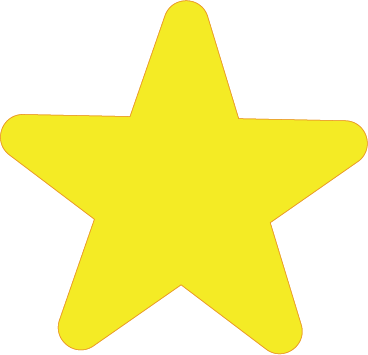
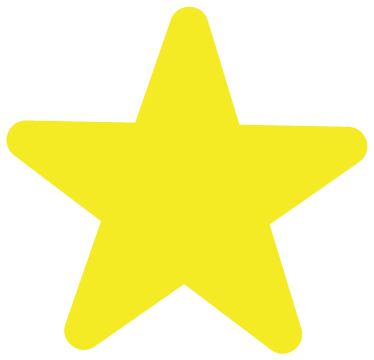
Changing star look and the way it moves

diff --git a/music_starter.js b/music_starter.js
@@ -17,20 +17,26 @@ let recDup
 let recSup
 let spLeft
 let spRight
+let backImg3
 
 let ellipseRadius = 10 
 let ellipseRadius2 = 10 
 let starSize = 0.2
 let starSize2 = 0.2
+let starSize3 = 0.2
+displacement = 10
 
 let Lights = [];
 
 let squareSize = 8
 let x1 = 783
 let x2 = 817
+let spSize = 10
 
 var x;
 var changeDirection;
+
+
 
 rotateAngle = 0 // needs to be outside of draw_one_frame
 function draw_one_frame(words, vocal, drum, bass, other, counter) {
@@ -48,12 +54,14 @@ function draw_one_frame(words, vocal, drum, bass, other, counter) {
     starPImg = loadImage('Astar1.png');
     starYImg = loadImage('Astar2.png');
 
-    recTro = loadImage('ArecTroopa');
-    recDup = loadImage('ArecDupa');
-    recSup = loadImage('ArecSuper');
+    recTro = loadImage('ArecTroopa.png');
+    recDup = loadImage('ArecDupa.png');
+    recSup = loadImage('ArecSuper.png');
 
-    spLeft = loadImage('Abass');
-    spRight = loadImage('Asound');
+    spLeft = loadImage('Abass.png');
+    spRight = loadImage('Asound.png');
+
+    backImg3 = loadImage('back2.png');
 
     // Lights.push(loadImage('Light1.png'));
     // Lights.push(loadImage('Light2.png'));
@@ -64,56 +72,49 @@ function draw_one_frame(words, vocal, drum, bass, other, counter) {
   }
 
   //BACKGROUND
-  background(backImg2)
+  background(backImg3)
 
- ///////////////////////////////
-  // //FOR BACKGROUND COLOURCHANGE
-  // if (counter > 200) {
-  //   fill(200,200,200)
-  //   ellipse(200, 200, ellipseRadius, ellipseRadius)
-  //   if (ellipseRadius < 2000) {
-  //     ellipseRadius += 20; 
-  //   }
-  // }
-  // if (counter > 400) {
-  //   fill(0,0,150)
-  //   ellipse(1056, 0, ellipseRadius2, ellipseRadius2)
-  //   if (ellipseRadius2 < 1000) {
-  //     ellipseRadius2 += 40; 
-  //   }
-  // }
-  // push();
-  // if (counter > 10) {
-  //   scale(starSize)
-  //   image(starPImg, -187, -180.5)
-  //   if (starSize < 1000) {
-  //     starSize += 0.2;
-  //   }
-  // }
-  // if (counter > 20) {
-  //   scale(starSize2)
-  //   translate(700,0)
-  //   image(starYImg, -187, -180.5)
-  //   if (starSize2 < 1000) {
-  //     starSize2 += 0.2;
-  //   }
-  // }
-  // pop()
+ 
+
+  push();
+if (counter > 200) {
+  translate(500,300)
+  scale(starSize);
+  image(starPImg, -187, -180.5);
+  
+  // Increase starSize, then reset if it reaches 1000
+  if (starSize < 1000) {
+    starSize += 0.2;
+  } else {
+
+    starSize = 1; // Reset to starting scale
+  }
+}
+pop();
+
+push();
+if (bass > 60) {
+  scale(starSize2);
+  translate(150,150)
+  rotateAngle++;
+  rotate(rotateAngle)
+  image(starYImg, -187, -180.5);
+  if (rotateAngle > 360) {
+    rotateAngle = 0;}
+  console.log(starSize2)
+  // Increase starSize2, then reset if it reaches 1000
+  if (starSize2 < 10) {
+    starSize2 += 0.1;
+  } else {
+    starSize2 = 1; // Reset to starting scale
+  }
+}
+pop();
+
+
 
   ///////////////////////////////
-  // //SUPA DUPA TROOPER
-//   push();
-// if(words == 'super') {
-//   translate(333,200)
-//   image(recSup, -160, -160)
-// }
-// if(words == 'duper') {
-//   translate(500,200)
-//   image(recDup, -160, -160)
-// }
-// pop()
 
-///////////////////////////////
 
  ///////////////////////////////
  //Deck
@@ -138,8 +139,8 @@ push();
 
   push();
   translate(937, 410)
-  rotateAngle++;
-  rotate(rotateAngle)
+  // rotateAngle++;
+  rotate(map(other, 0, 100, -180, 180))
   scale(1)
   image(rec1Img, -74, -74) 
   if (rotateAngle > 360) {
@@ -149,8 +150,8 @@ push();
 
   push();
   translate(800, 600)
-  rotateAngle++;
-  rotate(rotateAngle)
+  // rotateAngle++;
+  rotate(map(2*vocal,0,100,-30,100))
   scale(1)
   image(rec2Img, -74, -74) 
   if (rotateAngle > 360) {
@@ -162,45 +163,57 @@ push();
 //Music part of record player ?
 push();
 translate(160,670)
+//map rotaions - variable that changing is counter
 scale(1)
+// rotate(50)
 image(musicImg,-75.5,-240)
 pop()
 
 ///////////////////////////////
 //SPEAKERS
 push();
-scale(10)
- translate(10,80)
+ translate(150,150)
+ scale(0.9)
  image(spLeft,-138.5,-147)
+ translate(850,10)
+ image(spRight,-112.5,-165.5)
  pop()
 
-  fill(255, 162, 41)
-  ellipse(150, 160, 3 * bass, 3 * bass)
+push();
+ stroke(250)
+ strokeWeight(10)
+  fill(197, 255, 122)
+  let spbassMap = map(bass,0,100,80,160)
+  ellipse(187, 166, spbassMap, spbassMap)
 
   fill(255, 225, 0)
-  ellipse(920, 200, 3 * vocal, 3 * vocal)
+  let vocalMap = map(vocal, 0, 100, 70, 120);
+  ellipse(885, 225, vocalMap, vocalMap)
 
   fill(223, 92, 255)
-  ellipse(925, 105, 1 * drum, 1 * drum)
+  let spdrumMap = map(drum, 0, 100, 30, 80);
+  ellipse(885, 105, spdrumMap, spdrumMap)
+  pop()
+
 
   ///////////////////////////////
   //WAVES
   //i< to upper x position // + to x coord for lower x position
-  for (let i = 0; i < 1000; i++) {
-    fill(223, 92, 255) //PURPLE
-    ellipse(i * 10, drum * sin(i * 20) + 160, 7, 7)
+  for (let i = 0; i < 54; i++) {
+    fill(255) //PURPLE
+    ellipse(i * 10+280, drum * sin(i * 20) + 160, 7, 7)
     fill(0, 0, 0) //BLACK
-    rect(i * 10, bass * sin(i * 10) + 160, 5)
-    //     fill(0, 255, 4)//GREEN
-    // rect(i*10,other* (-sin(i*20)-sin(i*3)) +160,5)
+    rect(i * 10+280, bass * sin(i * 10) + 160, 5)
+    fill(100,250,100)//GREEN
+    rect(i * 10+280, -other * cos(i * 8) + 160, 5)
   }
 
 ///////////////////////////////
   //WORDS
-  textFont('Geneva'); // please use CSS safe fonts
+  textFont('Impact'); // please use CSS safe fonts
   rectMode(CENTER)
   textSize(24);
-  fill(20)
+  fill(250)
   textAlign(CENTER);
   textSize(100); // size of text (if 'vocal' then changes size.)
   text(words, width / 2, height / 3 - 30);
@@ -215,18 +228,25 @@ fill(100,150,250);
 rect(653,588,5,-1.5*other)
 
 //VOLUME 'LIGHTS'
-if (drum > 90) {
+let drumMap = int(map(drum, 0, 100, 1, 5));
+for (let i=0; i<drumMap; i++) {
   noStroke()
   fill(200,0,0)
-  rect(x2,455,squareSize,squareSize)
-  fill(0,200,0)
-  rect(x1,473,squareSize,squareSize)
+  rect(x2,473 - 17.5 * i,squareSize,squareSize)
 }
+let otherMap = int(map(vocal, 0, 100, 1, 5));
+for (let i=0; i<otherMap; i++) {
+  noStroke()
+fill(0,200,0)
+  rect(x1,473-17.5*i,squareSize,squareSize)
+}
+
 //SLIDERS
 push();
 fill(0)
-rect(x,376,10,20)
-rect(x,438,10,20)
+rect(map(vocal, 0, 100, 540, 660),376,10,20)
+rect(map(vocal, 0, 100, 660, 540),438,10,20)
+
 if(x>660){
   changeDirection=true}
   else if (x<=540){
@@ -236,54 +256,47 @@ if(x>660){
       else if(changeDirection == true){
         x=x-1}
 pop()
+push();
+fill(200,0,0)
+rect(map(drum, 0, 100, 903, 993),560,10,20)
+fill(100,250,100)
+rect(map(bass, 0, 100, 903, 993),602,10,20)
+fill(100,150,250)
+rect(map(other, 0, 100, 903, 993),644,10,20)
+
+
+// if(x>900){
+//   changeDirection=true}
+//   else if (x<=850){
+// 		changeDirection=false}
+//     if (x>=0 && changeDirection == false){
+//       x=x+1}
+//       else if(changeDirection == true){
+//         x=x-1}
+pop()
+  //SUPA DUPA TROOPER
+  push();
+  translate(530,50)
+  
+if(words == 'super') {
+  scale(0.9)
+  image(recSup, -160, 0)
+}
+
+if(words == 'duper') {
+
+  scale(1.4)
+  image(recDup, -160, 0)
+}
+
+if(words == 'trooper.') {
+  scale(2)
+  image(recTro, -160, 0)
+}
+pop()
+
+
+///////////////////////////////
 
 }
 
-// //FOR IMAGE
-
-// let lightYellow
-//-
-// lightYellow = loadImage('Light1.png');
-//-
-//push();
-// translate(100, 500)
-// scale(0.5)
-// image(lightYellow, -565, -420)
-//pop()
-
-// //BACKGROUND COLOUR CHANGE ACCORDING TO MOUSE
-//   r = map(mouseX,0,1000,0,255)
-//   b = map(mouseX,0,1000,0,255)
-//   background (r,0,b)
-
-//   for(let i = 0; i <= 6; i ++){
-// ellipse(300,y*i,50,50)
-// }
-
-// map counter once reaches number ie i<100 to change throughout
-
-//counter 60=1 second as based of fracerate
-
-//IMAGEMAP
-// var drumSS = int(map(drum, 0, 100, 0, 2));
-// console.log(drumSS);
-// push();
-// scale(1);
-// image(Lights[drumSS], 0, 0)
-// pop();
-
-
-
-
-  //     for (let i = 0; i < 1000; i++) {
-  // var VocalFrame = int(map(vocal,0,100,0,2));
-  // console.log(VocalFrame);
-  // push()
-  // scale(0.5);
-  // ellipse(9,9, i*VocalFrame, i*20)
-  // pop();
-  //     }
-
-
-
- 

diff --git a/README.md b/README.md
@@ -5,5 +5,5 @@
 A P5JS framework for running a simple music visualizer, intended as a creative coding I assignment.
 
 Song details: // UPDATE THIS AS YOUR CHANGE YOUR SONG 
-Title = Just Dropped In (To See What Condition My Condition Was In)
-Artist = Kenny Rogers
+Title = Turn Up the Bass - Fast Eddie Scratch It Up Mix
+Artist = Tyree Cooper
